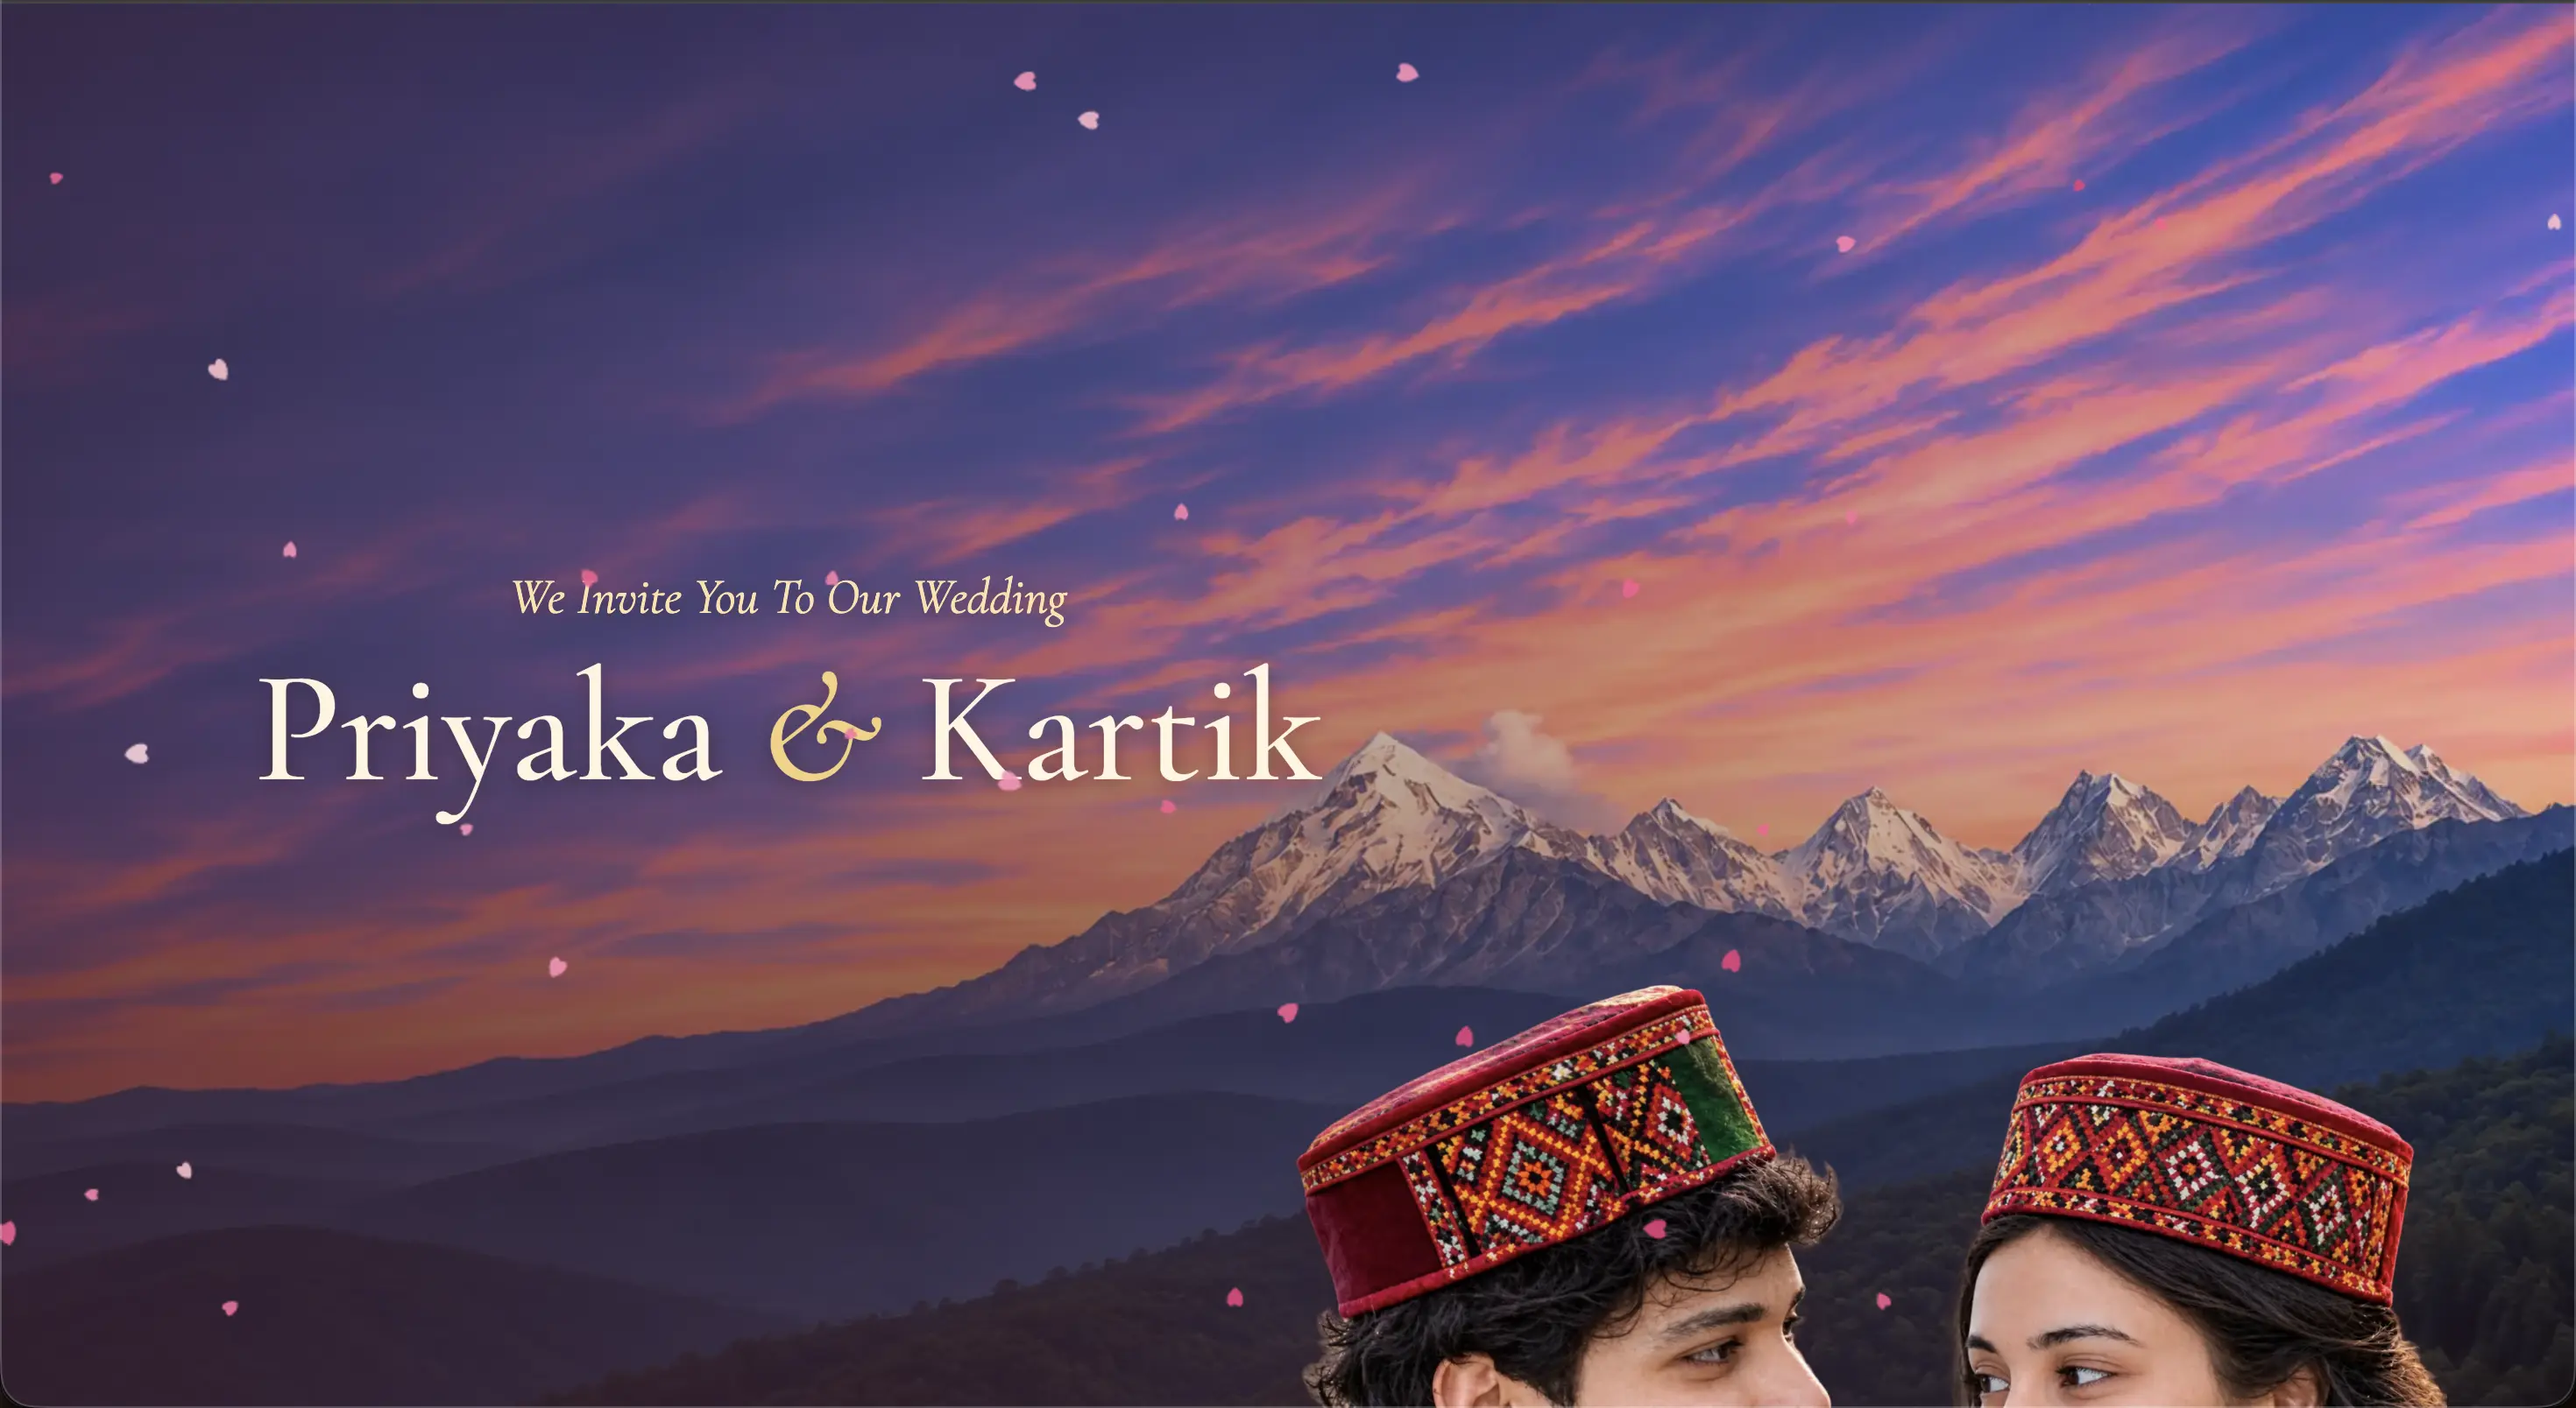
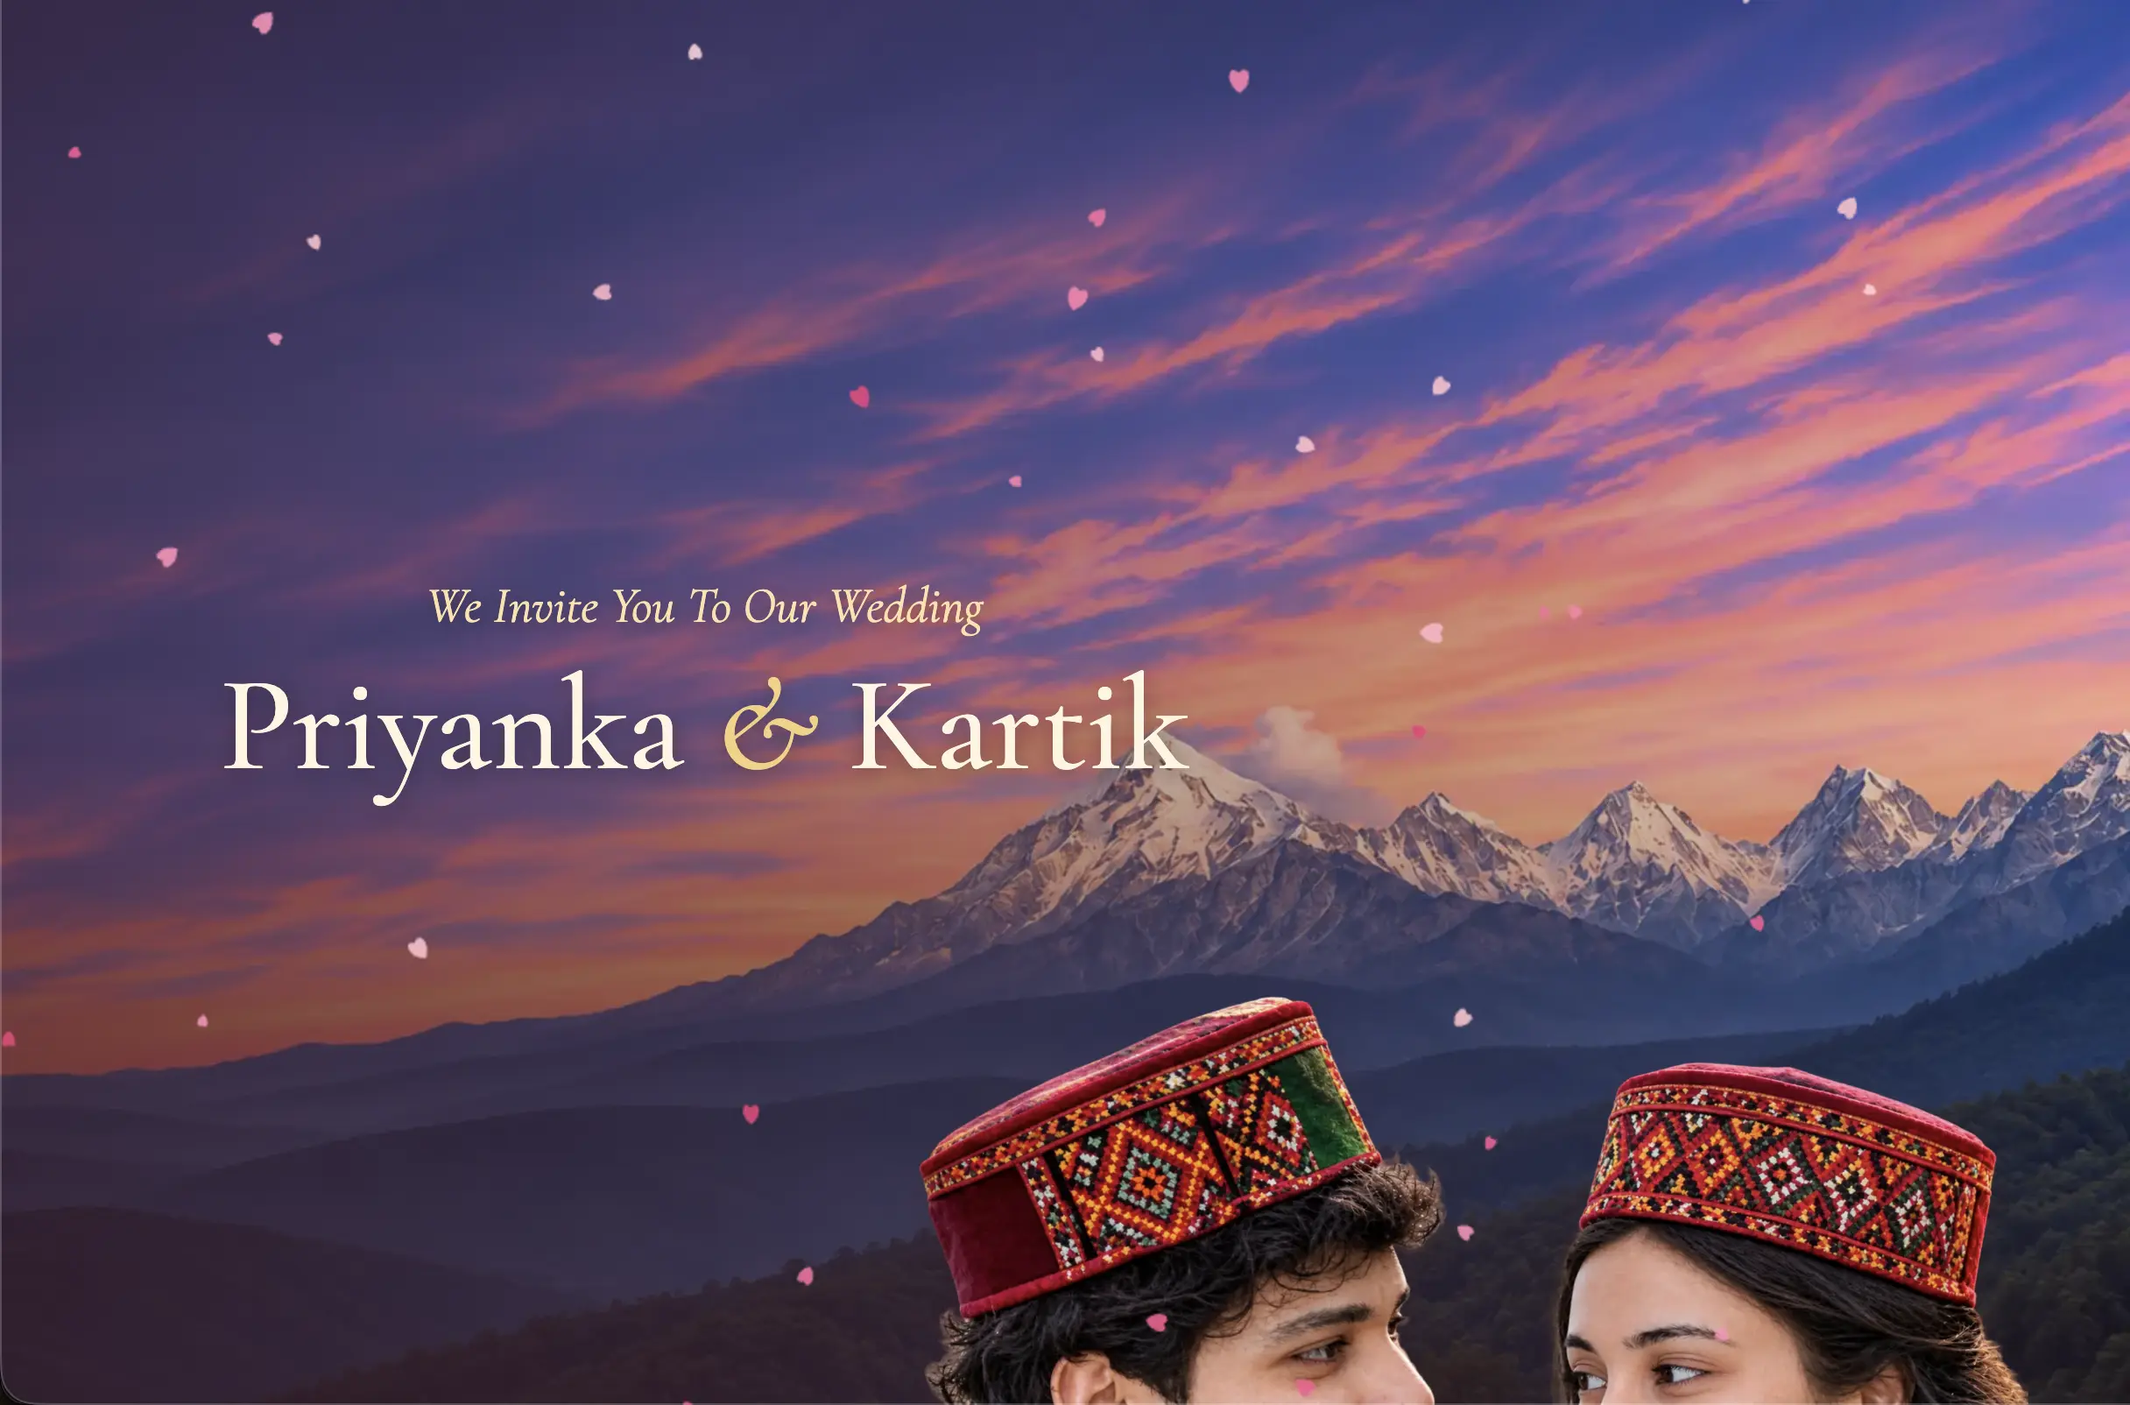
name fix

diff --git a/src/pages/CountdownPage.tsx b/src/pages/CountdownPage.tsx
@@ -65,7 +65,7 @@ function CountdownPage() {
             <div className="countdown-content">
                 <div className="countdown-copy">
                     <p className="countdown-eyebrow">A Kumaoni celebration</p>
-                    <h1 id="countdown-title">Priyaka <span>&amp;</span> Kartik</h1>
+                    <h1 id="countdown-title">Priyanka <span>&amp;</span> Kartik</h1>
                     <p className="countdown-tagline">Counting down to our forever</p>
 
                     <div className="countdown-timer" role="timer" aria-live="off">
